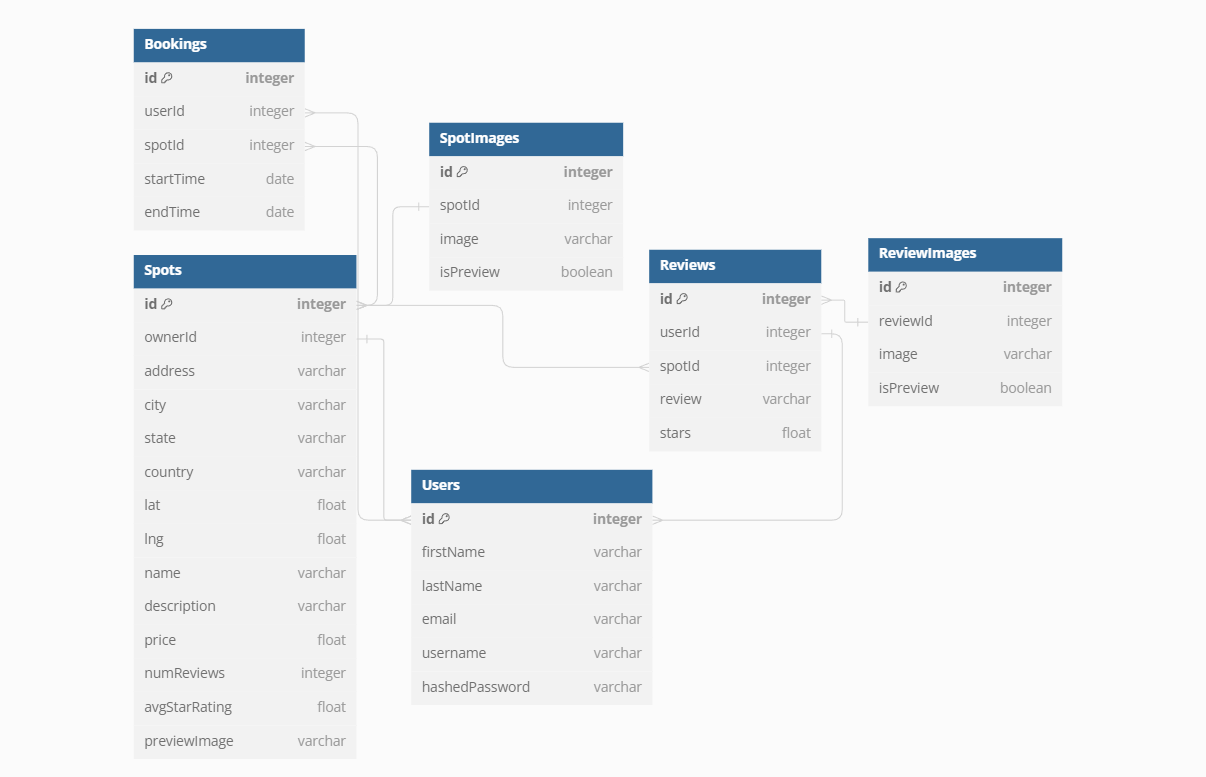
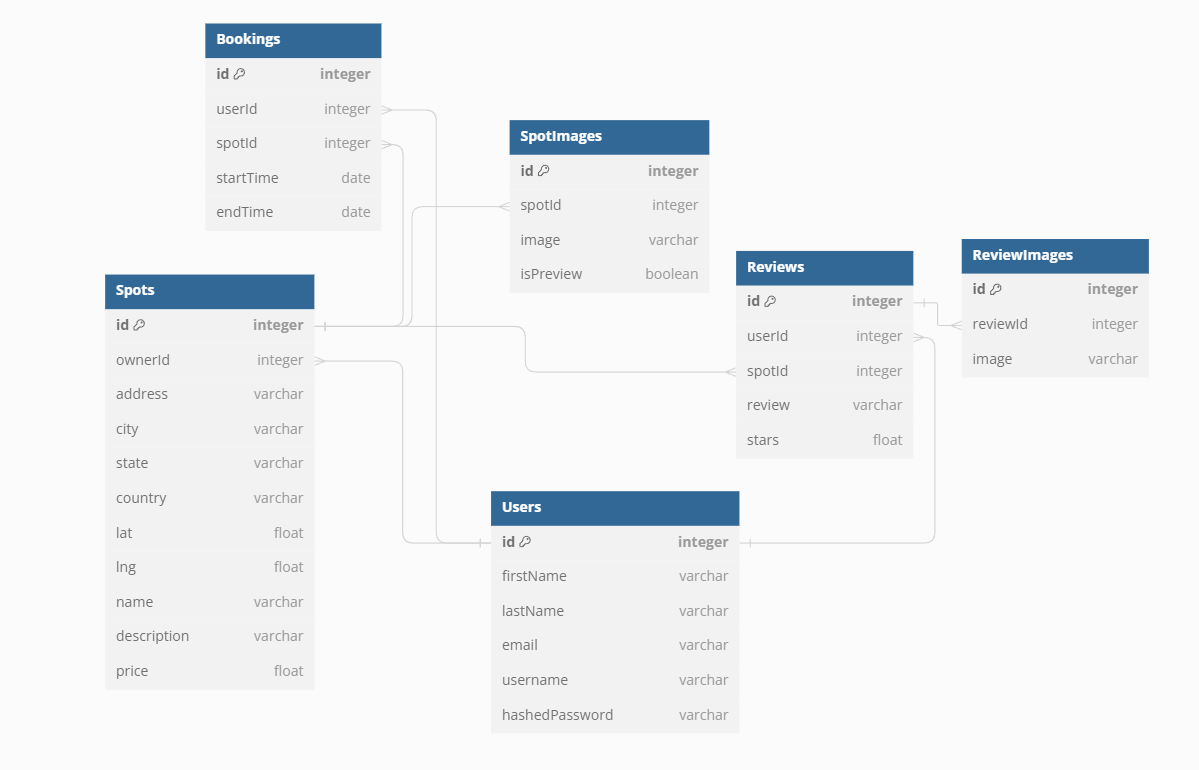
updated

diff --git a/README_RESPONSES.md b/README_RESPONSES.md
@@ -4,7 +4,7 @@
 ![Image](./DBairnbn.png)
 `
 Table Spots { id integer pk
-  ownerId integer [Ref: < Users.id]
+  ownerId integer [Ref: > Users.id]
   address varchar
   city varchar
   state varchar
@@ -14,9 +14,6 @@ Table Spots { id integer pk
   name varchar
   description varchar
   price float
-  numReviews integer
-  avgStarRating float
-  previewImage varchar
 }
 
 Table Users {
@@ -30,32 +27,31 @@ Table Users {
 
 Table Reviews {
   id integer pk
-  userId integer [ref: < Users.id]
-  spotId integer [ref: <> Spots.id]
+  userId integer [ref: > Users.id]
+  spotId integer [ref: > Spots.id]
   review varchar
   stars float
   }
 
 Table Bookings {
   id integer pk
-  userId integer [ref: <> Users.id]
-  spotId integer [ref: <> Spots.id]
+  userId integer [ref: > Users.id]
+  spotId integer [ref: > Spots.id]
   startTime date
   endTime date
   }
 
 Table SpotImages {
   id integer pk
-  spotId integer [ref: < Spots.id]
+  spotId integer [ref: > Spots.id]
   image varchar
   isPreview boolean
   }
 
 Table ReviewImages {
   id integer pk
-  reviewId integer [ref: < Reviews.id]
+  reviewId integer [ref: > Reviews.id]
   image varchar
-  isPreview boolean
   }`
 
 ## API Documentation
@@ -341,7 +337,7 @@ Returns all the spots owned (created) by the current user.
 * Require Authentication: true
 * Request
   * Method: GET
-  * URL: /user/spots
+  * URL: /spots/current
   * Body: none
 
 * Successful Response
@@ -688,7 +684,7 @@ Returns all the reviews written by the current user.
 * Require Authentication: true
 * Request
   * Method: GET
-  * URL: /user/reviews
+  * URL: /reviews/current
   * Body: none
 
 * Successful Response
@@ -1036,7 +1032,7 @@ Return all the bookings that the current user has made.
 * Require Authentication: true
 * Request
   * Method: GET
-  * URL: /user/bookings
+  * URL: /bookings/current
   * Body: none
 
 * Successful Response
